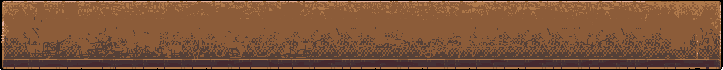
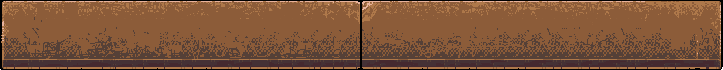
Dice and HP bar visually in place
functionally nothin really works

Changed region(s): [[0.426, 0.3714, 0.5477, 0.8571], [0.426, 0.0, 0.5477, 0.3429], [0.4564, 0.9429, 0.5173, 1.0]]

diff --git a/core/src/aston/team15/jumazy/view/FightingView.java b/core/src/aston/team15/jumazy/view/FightingView.java
@@ -12,6 +12,7 @@ import com.badlogic.gdx.scenes.scene2d.InputListener;
 import com.badlogic.gdx.scenes.scene2d.Stage;
 import com.badlogic.gdx.scenes.scene2d.ui.Image;
 import com.badlogic.gdx.scenes.scene2d.ui.Table;
+import com.badlogic.gdx.utils.Align;
 
 import aston.team15.jumazy.controller.JumazyController;
 
@@ -19,41 +20,90 @@ public class FightingView extends Stage {
 
     private Table fightBar;
     private Table contents;
+	float health1Percent;
+	float health2Percent;
+	DiceView dice;
+	DiceView dice2;
 
     public FightingView (final JumazyController game){
+    	float scale = 2f;
         fightBar = new Table();
+//        fightBar.debugAll();
 //        fightBar.setFillParent(true);
 //        fightBar.top().padTop(100f);
-		fightBar.setBackground(new Image(new Texture("fightbar.png")).getDrawable());
+		fightBar.setBackground(new Image(new Texture("fightbarPNG.png")).getDrawable());
 		fightBar.setSize(JumazyController.WORLD_WIDTH, 124); 
 
         contents = new Table();
         contents.setFillParent(true);    
-        contents.top().padTop(120f);
-		contents.add(new Image(new Texture("player1.png"))).left();
-		contents.add(new Image(new Texture("skele1.png"))).right();
+//        contents.top().padTop(120f);
+//        Table health1 = new Table();
+//        Table health2 = new Table();
+//        
+//        health1.setFillParent(true);    
+//        health2.setFillParent(true);    
+//		health1.setBackground(new Image(new Texture("health.png")).getDrawable());
+//		health2.setBackground(new Image(new Texture("health.png")).getDrawable());
+		Image health1 = new Image(new Texture("health.png"));
+		Image health2 = new Image(new Texture("health.png"));
+		
+		health1.setScale(scale);
+		health1.setScaleX(health1Percent*scale);
+//		health1.setFillParent(true);
+
+//		fightBar.add(health1);
+//		fightBar.padRight(300);
+//		fightBar.add(health2);
+
+		dice2 = new DiceView((JumazyController.WORLD_WIDTH/2) - game.getSprite("number1").originalWidth - 9, 23,
+						game.getSprite("number1"));
+		dice = new DiceView((JumazyController.WORLD_WIDTH/2) + 7 , 23,
+						game.getSprite("number2"));
+		
+		fightBar.add(contents);
+		contents.add(dice);
+		contents.add(dice2);
+		fightBar.add(contents);
 
         this.addListener(new InputListener() {
             public boolean keyDown(InputEvent event, int keycode) {
 
-                if(keycode == Input.Keys.F){
-    				playSound(new File("../assets/snd/correct.wav"));
-    				remove();
-    				game.resume();
+                if(keycode == Input.Keys.SPACE){
+                	
+            		
+                	update(health1Percent-=0.1,health2Percent);
+                	fightBar.remove();
+                	start();
+                	System.out.println(health1Percent);
+
                 }
+
+                if(keycode == Input.Keys.F){
+
+
+        			playSound(new File("../assets/snd/correct.wav"));
+        			resume(game);
+                }
+                
                 return true;
             }
         });
+        
+        if(health1Percent <= 0||health2Percent <= 0) {
+        }
     }
 
-    public void start(){
+	public void update(float health1, float health2){
+		setHealth(health1,health2);
+    }
+
+	public void start(){
         this.addActor(fightBar);
-        this.addActor(contents);
     }
 
-    public void remove() {
+    public void resume(JumazyController game) {
         fightBar.remove();
-        contents.remove();
+		game.resume();
     }
 
 	public void playSound(File sound) {
@@ -65,4 +115,19 @@ public class FightingView extends Stage {
 			System.out.println(e);
 		}
 	}
+	
+	public void setHealth(float health1, float health2) {
+		health1Percent = health1;
+		health2Percent = health2;
+	}
+
+	public void rollDice(JumazyController game, int finalDie) {
+		
+		contents.add(dice);
+		contents.add(dice2);
+		fightBar.add(contents);
+		dice.setDie(finalDie);
+		dice2.setDie(finalDie);
+	}
+		
 }

diff --git a/core/src/aston/team15/jumazy/view/GameScreen.java b/core/src/aston/team15/jumazy/view/GameScreen.java
@@ -130,6 +130,7 @@ public class GameScreen implements Screen {
 
 		hud = new HeadsUpDisplay(game, currentPlayerIndex, currentPlayerStats);
 		uiStage.addActor(hud);
+		
 
 		gameStage.addListener(new InputListener() {
 			public boolean keyDown(InputEvent event, int keycode) {
@@ -274,6 +275,11 @@ public class GameScreen implements Screen {
 		dice.setDie(finalDie);
 	}
 
+	public void rollFightDice(JumazyController game, int finalDie) {
+		fightingStage.rollDice(game, finalDie);
+		
+	}
+
 	public int getCurrentPlayerNumber() {
 		return currentPlayerIndex + 1;
 	}
@@ -284,9 +290,11 @@ public class GameScreen implements Screen {
 		uiStage.getViewport().update(width, height, true);
 	}
 
-	public void startFight() {  
+	public void startFight(int health1, int health2) {  
+		fightingStage.setHealth(health1, health2);
 		Gdx.input.setInputProcessor(fightingStage);
 		fightingStage.start();
+		System.out.println("p1 h:"+health1+" p2: h:"+health2);
 	}
 
 	@Override

diff --git a/core/src/aston/team15/jumazy/controller/JumazyController.java b/core/src/aston/team15/jumazy/controller/JumazyController.java
@@ -94,7 +94,7 @@ public class JumazyController extends Game {
 
 				if (maze.getCurrentPlayer().isInFight()) {
 					
-					gameScreen.startFight();
+					gameScreen.startFight(maze.getCurrentPlayer().getStatsArray()[0],10);
 					maze.getCurrentPlayer().endFight();
 					
 				}
@@ -113,6 +113,10 @@ public class JumazyController extends Game {
 		case Input.Keys.SPACE:
 			if (maze.getCurrentPlayer().canRoll()) {
 				gameScreen.rollDice(maze.rollForPlayer());
+			}
+			if (maze.getCurrentPlayer().isInFight()) {
+				gameScreen.rollFightDice(this, maze.rollForPlayer());
+				break;
 			}
 			break;
 		default:
